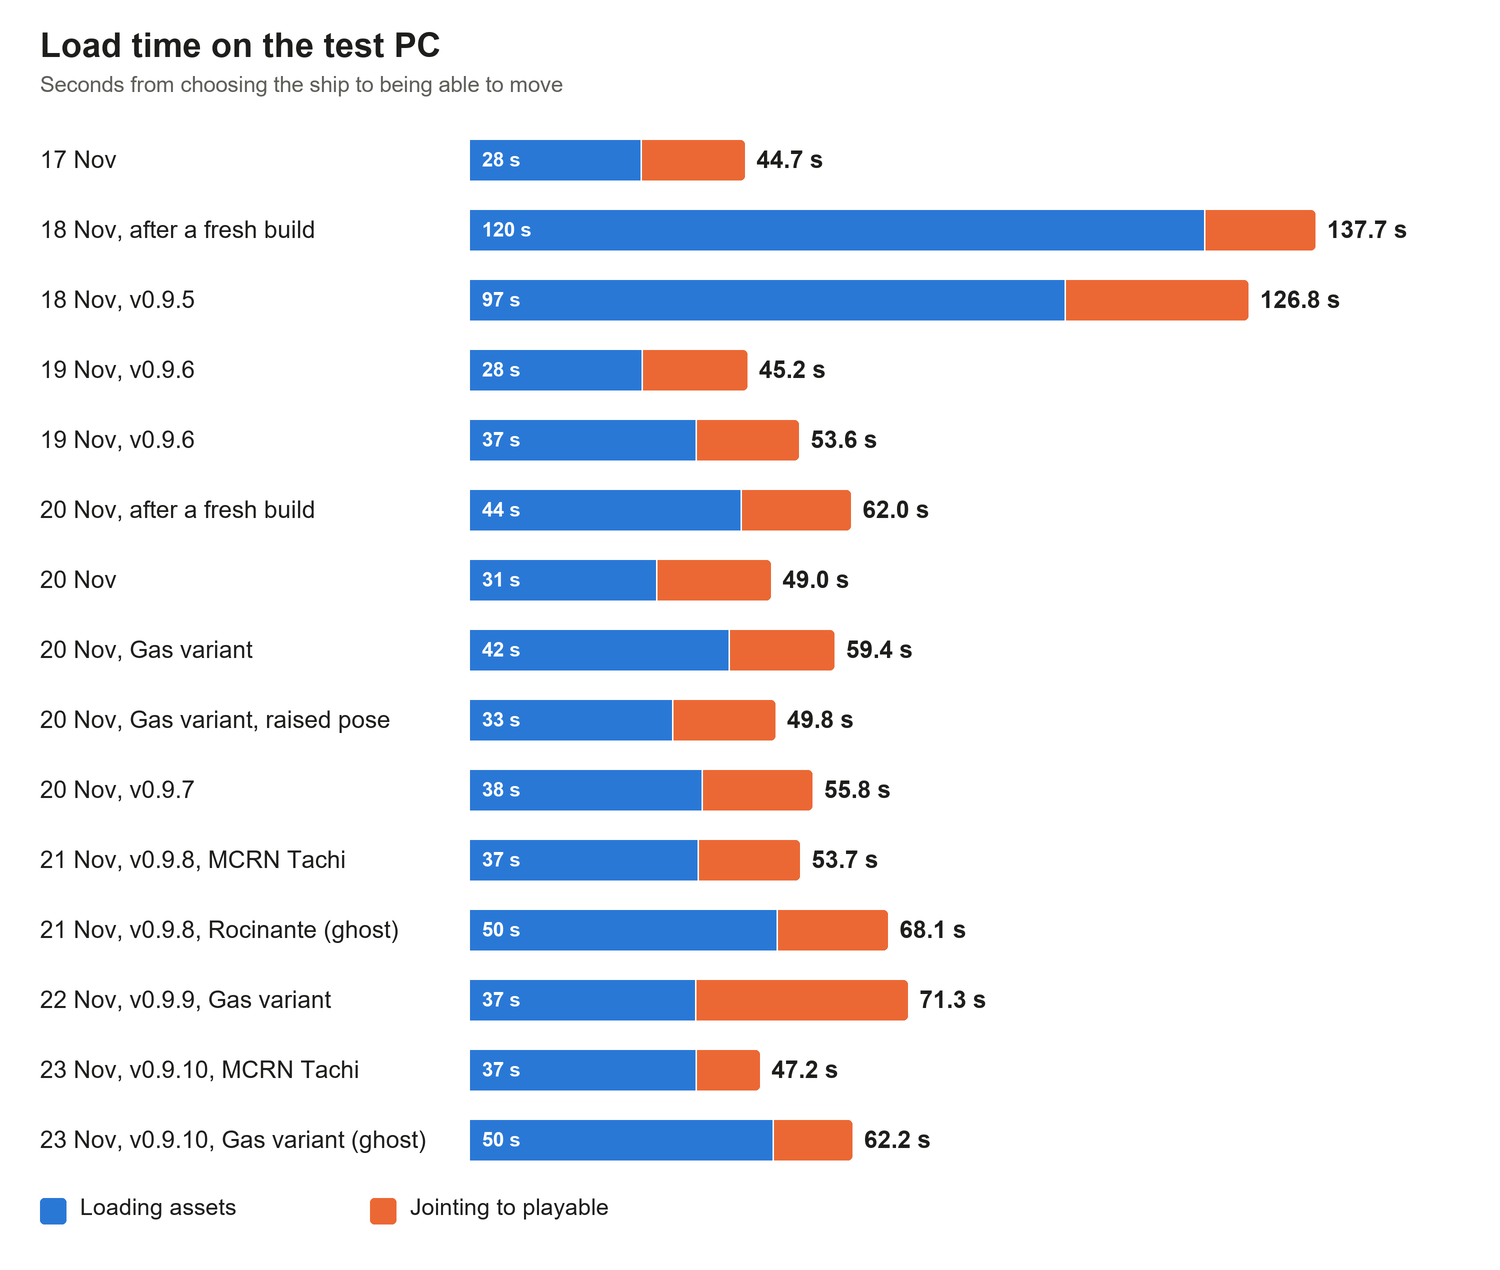
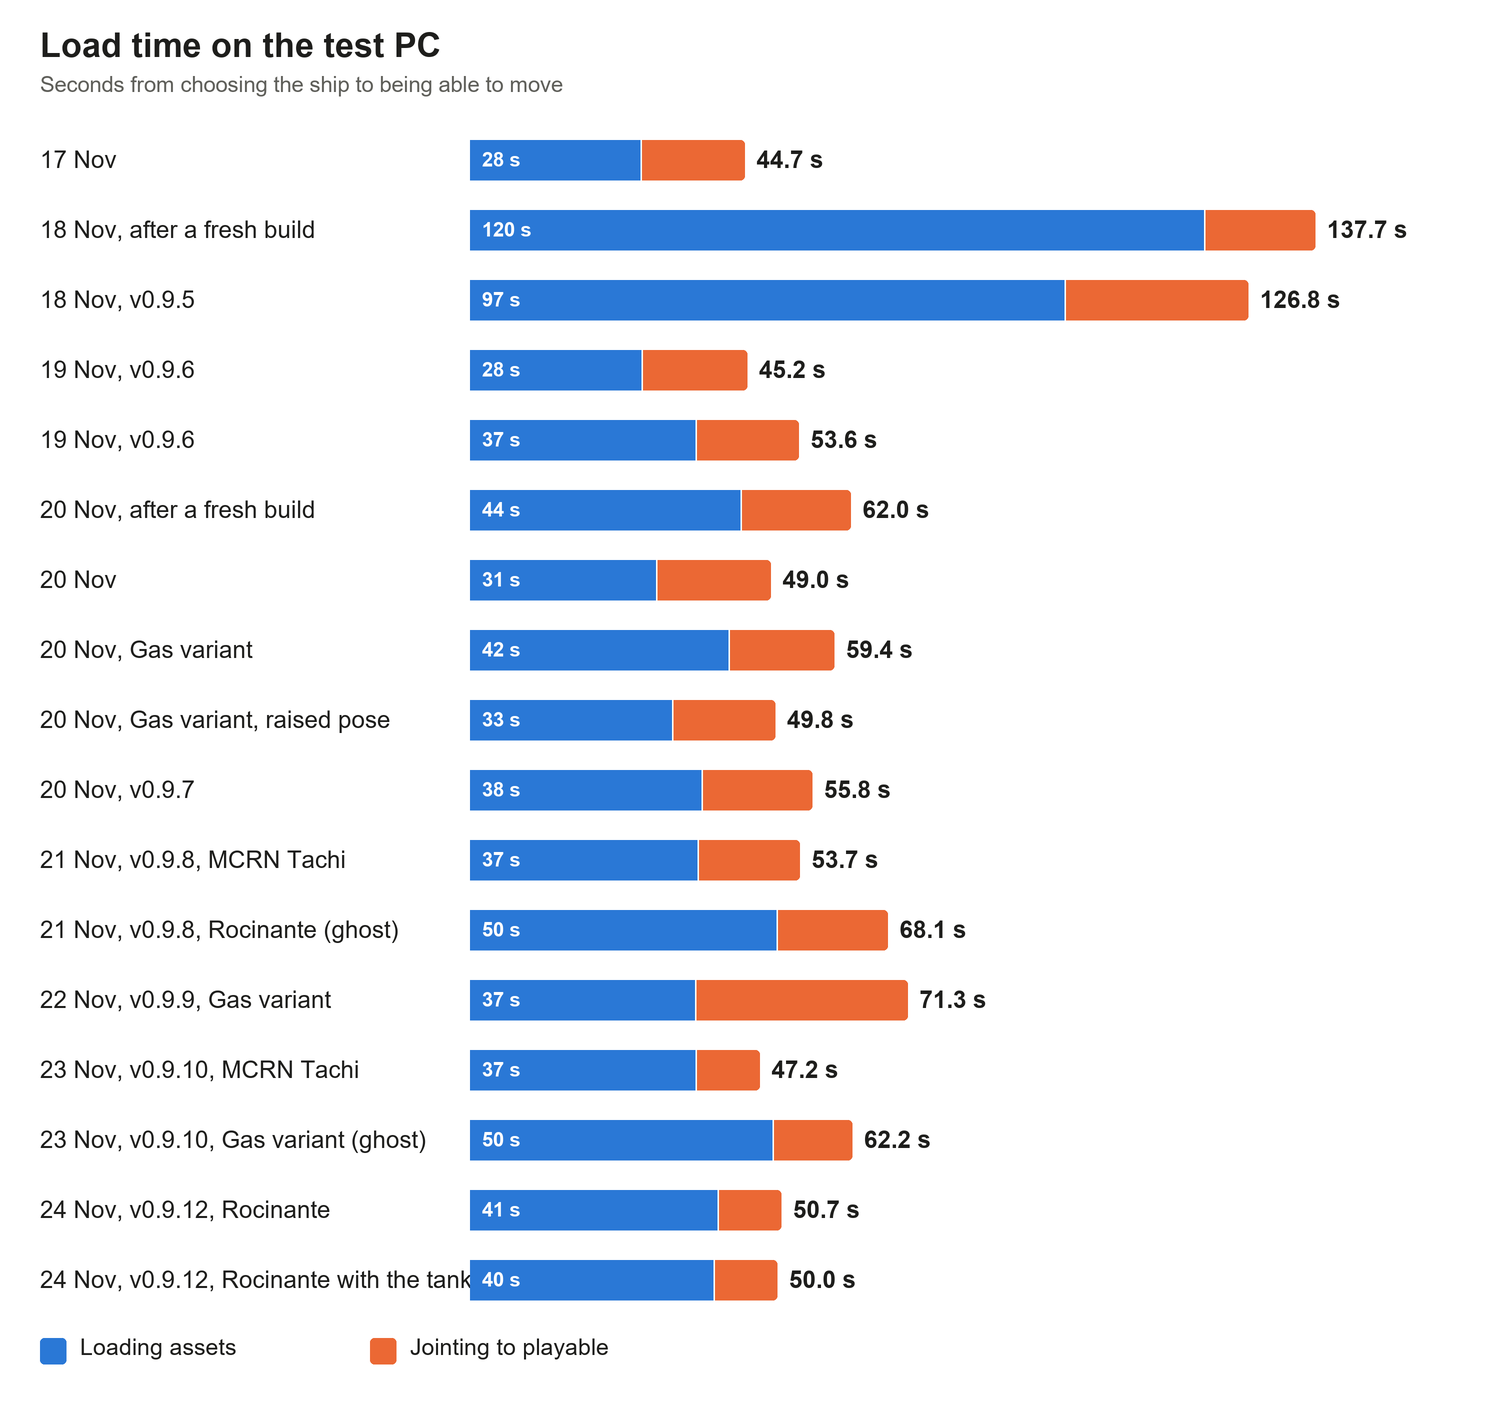
MCRN Corvette docs: reaction mass tanks, measured Rocinante count, v0.9.12 changelog
Rocinante 5,227 counted at load (logged, matches the calculation); Tachi 5,325,
Gas Hauler 5,750 by arithmetic from the parts log.

diff --git a/Docs/Tachi_Ship_Statistics.md b/Docs/Tachi_Ship_Statistics.md
@@ -2,7 +2,7 @@
 
 A custom salvage ship for Hardspace: Shipbreaker, modeled on the MCRN Corvette-class light frigate *Tachi* from *The Expanse*.
 
-Version 0.9.12, 24 November 2026. The v0.9.12 figures are the v0.9.11 figures below changed by simple arithmetic from the parts log kept while building, not a new census: on every variant 5 slot covers close the gaps in the Engineering ceiling, the four generators became the stock generator with its 3 status lights each (12 lights), 6 PDC ammo posters hang on the ammo crates, and the 8 reactor injector nozzles (6 pipe pieces each) became a 5-part thruster nozzle (8 parts fewer); the Rocinante also gains its railgun ammo poster and 2 generators on the railgun breech (17 parts). The v0.9.11 figures were the v0.9.10 measurements below changed by simple arithmetic: the cryo ring was rebuilt with longer pipes (12 straight pipes fewer, 2 cut points more, so 10 parts fewer on every variant), and ghost ships carry a 60th Protomolecule node. The Rocinante's count was logged on a load of this build (5,181 parts, normal ship). The paragraph below describes the v0.9.10 measurements. The MCRN Tachi figures, its categories and its loose parts are from a load of the v0.9.10 build on 23 November, with the mod's spawn census. The Gas Hauler's part counts, loose parts and cut points are from a load of the same day as a ghost ship; its normal-ship counts are those less its 59 nodes. The Rocinante was not loaded on this build: its figures are its v0.9.9 counts plus the 94 parts the base ship gained (the point defense housings rebuilt, the rings cut in eight, the fore hull regrouped). The section tables are from the v0.9.8 census and were not re-measured. "Measured" means taken from the game or the editor on that build. "Estimate" means calculated, with the method given.
+Version 0.9.12, 24 November 2026. The v0.9.12 figures are the v0.9.11 figures below changed by simple arithmetic from the parts log kept while building, not a new census: on every variant 5 slot covers close the gaps in the Engineering ceiling, the four generators became the stock generator with its 3 status lights each (12 lights), 6 PDC ammo posters hang on the ammo crates, and the 8 reactor injector nozzles (6 pipe pieces each) became a 5-part thruster nozzle (8 parts fewer); the Rocinante also gains its railgun ammo poster and 2 generators on the railgun breech (17 parts). The Rocinante was then loaded on this build: the game counted 5,211 parts, 2 fewer than calculated. After that load, 16 reaction mass tanks were hung under the cryo deck plates on every variant (16 parts). A second Rocinante load with the tanks counted 5,227, as calculated. The v0.9.11 figures were the v0.9.10 measurements below changed by simple arithmetic: the cryo ring was rebuilt with longer pipes (12 straight pipes fewer, 2 cut points more, so 10 parts fewer on every variant), and ghost ships carry a 60th Protomolecule node. The Rocinante's count was logged on a load of this build (5,181 parts, normal ship). The paragraph below describes the v0.9.10 measurements. The MCRN Tachi figures, its categories and its loose parts are from a load of the v0.9.10 build on 23 November, with the mod's spawn census. The Gas Hauler's part counts, loose parts and cut points are from a load of the same day as a ghost ship; its normal-ship counts are those less its 59 nodes. The Rocinante was not loaded on this build: its figures are its v0.9.9 counts plus the 94 parts the base ship gained (the point defense housings rebuilt, the rings cut in eight, the fore hull regrouped). The section tables are from the v0.9.8 census and were not re-measured. "Measured" means taken from the game or the editor on that build. "Estimate" means calculated, with the method given.
 
 ## At a glance
 
@@ -11,7 +11,7 @@ Version 0.9.12, 24 November 2026. The v0.9.12 figures are the v0.9.11 figures be
 | Length (engine bell to antenna tip) | 133.7 m |
 | Beam (port to starboard, over the gun mounts) | 54.6 m (Gas variant, over the tank racks: 67.2 m) |
 | Height (dorsal to ventral) | 46.3 m (Gas variant: 55.1 m) |
-| Parts counted at load | 5,309 (MCRN Tachi) · 5,213 (Rocinante) · 5,734 (Gas variant), all v0.9.12 |
+| Parts counted at load | 5,325 (MCRN Tachi) · 5,227 (Rocinante) · 5,750 (Gas variant), all v0.9.12 |
 | As a ghost ship | 60 Protomolecule nodes and 252 growth patches more (see Ghost ship content) |
 | Cut points | 260 (Gas variant: 343) |
 | Loose items at spawn | 183 (props, pickups and one floating corpse, in one of six places) |
@@ -46,6 +46,8 @@ Measured on the test PC, from choosing the ship to being able to move:
 | 22 Nov, v0.9.9, Gas variant | 71.3 s | 36.9 s | 34.4 s |
 | 23 Nov, v0.9.10, MCRN Tachi | 47.2 s | 37.0 s | 10.2 s |
 | 23 Nov, v0.9.10, Gas variant as a ghost ship | 62.2 s | 49.5 s | 12.7 s |
+| 24 Nov, v0.9.12, Rocinante | 50.7 s | 40.6 s | 10.1 s |
+| 24 Nov, v0.9.12, Rocinante with the tanks | 50.0 s | 39.9 s | 10.1 s |
 
 The v0.9.5 run had the mod's part-data capture switched on, which adds load time, so it overstates a normal load.
 
@@ -70,12 +72,12 @@ If the game sits on the loading screen for more than ten minutes, treat it as a 
 
 | | |
 |---|---|
-| Live parts at spawn (every piece the game simulates) | 5,311 (v0.9.12; 5,296 on v0.9.11) |
-| Parts counted by the game's joint pass | 5,309 (v0.9.12; 5,294 on v0.9.11) |
+| Live parts at spawn (every piece the game simulates) | 5,327 (v0.9.12; 5,296 on v0.9.11) |
+| Parts counted by the game's joint pass | 5,325 (v0.9.12; 5,294 on v0.9.11) |
 | Objects in the ship that never become parts | 260 (see below) |
 | Largest mesh | `Suit_Hanging` (a stock hanging suit), 17,136 vertices |
 | Part ceiling at that mesh size | 7,832 |
-| Headroom | 2,523 parts |
+| Headroom | 2,507 parts |
 
 **The part ceiling.** While the ship loads, the game multiplies the number of parts by the vertex count of the largest single mesh. If that product passes 134,217,728 the game crashes on load. With the current largest mesh that allows 7,832 parts. Adding parts, or adding one mesh larger than 17,136 vertices, both use up the headroom. The rebuilt point defense housings took the ship's own largest mesh (18,291 vertices) below the stock suit's.
 
@@ -93,16 +95,16 @@ If the game sits on the loading screen for more than ten minutes, treat it as a 
 
 | Category | Parts | Share |
 |---|---|---|
-| Furniture and props | 1,714 | 32.3 % |
+| Furniture and props | 1,730 | 32.5 % |
 | Decks, walls, stairs and doors | 1,015 | 19.1 % |
 | Machinery, power and weapons | 846 | 15.9 % |
 | Pipes and cables | 802 | 15.1 % |
 | Cut points | 260 | 4.9 % |
-| Lights | 258 | 4.9 % |
+| Lights | 258 | 4.8 % |
 | Hull panels | 212 | 4.0 % |
 | Structural frame | 204 | 3.8 % |
 
-The category table is from the v0.9.10 census of the MCRN Tachi. Against v0.9.9 the rebuilt point defense housings add 91 machinery parts, and the regrouped fore hull adds 4 cut points. In v0.9.11 the rebuilt cryo ring has 12 straight pipes fewer and 2 cut points more. In v0.9.12 the posters add 6 furniture parts, the generator status lights 12 lights, the ceiling slot covers 5 hull panels, and the new injector nozzles count 8 pipe parts fewer. The section tables are from the v0.9.8 census of the Rocinante, with the MCRN Tachi's 106 extra furniture parts added to the interior, where they all are. Four pipe pieces at the fore thermal vents carry the cut point type so that they do not joint to the vents; they are counted here as pipe.
+The category table is from the v0.9.10 census of the MCRN Tachi. Against v0.9.9 the rebuilt point defense housings add 91 machinery parts, and the regrouped fore hull adds 4 cut points. In v0.9.11 the rebuilt cryo ring has 12 straight pipes fewer and 2 cut points more. In v0.9.12 the posters and the 16 reaction mass tanks add 22 furniture parts, the generator status lights 12 lights, the ceiling slot covers 5 hull panels, and the new injector nozzles count 8 pipe parts fewer. The section tables are from the v0.9.8 census of the Rocinante, with the MCRN Tachi's 106 extra furniture parts added to the interior, where they all are. Four pipe pieces at the fore thermal vents carry the cut point type so that they do not joint to the vents; they are counted here as pipe.
 
 Categories are assigned from each part's joint type and name. The rules were rewritten for v0.9.5, so these shares are not comparable with earlier versions of this document.
 
@@ -121,11 +123,11 @@ The floating corpse and its suit (14 parts) spawn in one of six places. In this 
 
 ### Loose parts
 
-At spawn the main structure is one body of 5,128 parts (v0.9.12, calculated: every part added since the census is jointed to the ship). Two fittings are loose in this build: a railing and a thruster terminal.
+At spawn the main structure is one body of 5,144 parts (v0.9.12, calculated: every part added since the census is jointed to the ship). Two fittings are loose in this build: a railing and a thruster terminal.
 
 | | |
 |---|---|
-| Main structure | 5,128 parts in one body |
+| Main structure | 5,144 parts in one body |
 | Loose parts | 183, in 159 separate bodies |
 | Loose single items | 150 |
 | Loose bodies of more than one part | 9 |
@@ -217,10 +219,10 @@ The ship comes in three versions, each listed as its own ship in Free Play and o
 |---|---|---|---|
 | What differs | | Colors as an independent warship, keel railgun with its ammo crate and 2 generators on the breech, Belter posters, less furniture | Colors, 24 external tanks on trusses, point defense cannons removed, own bay pose, Belter posters, less furniture |
 | How it is picked | Own ship entry | Own ship entry | Own ship entry |
-| Live parts at spawn | 5,311 (v0.9.12, see Parts) | 5,215 (calculated) | 5,736 (5,796 as a ghost ship) |
-| Parts counted by the joint pass | 5,309 | 5,213 as a normal ship, 5,273 as a ghost ship | 5,734 as a normal ship, 5,794 as a ghost ship |
-| Headroom under the part ceiling | 2,523 | 2,619 (2,559 as a ghost ship) | 2,098 (2,038 as a ghost ship) |
-| Main structure | 5,128 | 5,035 | 5,606 as a ghost ship |
+| Live parts at spawn | 5,327 (v0.9.12, see Parts) | 5,229 (logged) | 5,752 (5,812 as a ghost ship) |
+| Parts counted by the joint pass | 5,325 | 5,227 as a normal ship (logged), 5,287 as a ghost ship | 5,750 as a normal ship, 5,810 as a ghost ship |
+| Headroom under the part ceiling | 2,507 | 2,605 (2,545 as a ghost ship) | 2,082 (2,022 as a ghost ship) |
+| Main structure | 5,144 | 5,051 | 5,622 as a ghost ship |
 | Loose parts | 183 in 159 bodies | about 180 in 156 bodies | 190 in 160 bodies, as a ghost ship |
 | Cut points | 260 | 260 | 343 |
 | Size (length x beam x height) | 133.7 x 54.6 x 46.3 m | same | 133.7 x 67.2 x 55.1 m |
@@ -327,6 +329,7 @@ Sizes and masses were measured on an earlier 18 November build and not re-measur
 | Acceleration couches | 32 |
 | Main drive | 1, with a 16-segment nozzle and 8 fuel injectors |
 | Reactor | 1 fusion reactor |
+| Reaction mass tanks | 16, hung under the cryo deck around the reactor |
 | RCS thruster housings | 7 |
 | Heat exchangers and radiators | 8 of each |
 | Airlocks | 2 (forward and aft) |
@@ -400,7 +403,7 @@ The lore gives performance figures for the Epstein drive in general, not for thi
 | Dimensions, per-section sizes | Part bounds in the Unity editor |
 | Volume | Calculated from part bounds, as described above |
 | Mass | Calculated with the game's own formula from mesh volume and material density, plus game-reported masses for stock parts |
-| v0.9.12 figures | The v0.9.11 figures changed by the parts logged while building (`.claude/parts_ledger.md`): 5 ceiling slot covers, 12 generator status lights, 6 ammo posters, 8 injector nozzles of 5 parts replacing 8 of 6 pipe pieces; Rocinante also 1 railgun poster and 2 generators of 8 parts. Not yet checked against a census |
+| v0.9.12 figures | The v0.9.11 figures changed by the parts logged while building (`.claude/parts_ledger.md`): 5 ceiling slot covers, 12 generator status lights, 6 ammo posters, 8 injector nozzles of 5 parts replacing 8 of 6 pipe pieces; Rocinante also 1 railgun poster and 2 generators of 8 parts. Rocinante checked on a load of 24 November: 5,211 counted, 2 under the calculation. Then 16 reaction mass tanks on every variant; a second Rocinante load counted 5,227 |
 | v0.9.11 figures | The v0.9.10 figures changed by the parts added and removed since: the cryo ring (12 straight pipes fewer, 2 cut points more) and the 60th ghost-ship node. Rocinante: joint-pass count and main structure from the mod's spawn census on a load of 23 November, 11:16 |
 | v0.9.10 figures | The mod's spawn census on loads of 23 November: MCRN Tachi as a normal ship, Gas variant as a ghost ship (its normal-ship counts are those less 59 nodes). Rocinante: its v0.9.9 count plus the 94 parts the base ship gained |
 | v0.9.9 part counts | The v0.9.8 counts, changed by the objects added, removed and switched off in the ship's files since: none on the MCRN Tachi, 7 fewer on the Rocinante. Checked against the part counts the PartInfoLogger mod logged on two loads of 22 November: Rocinante 5,097, Gas variant 5,687. Loose parts by type: 20 floating data drives became 7 credit drives, 7 oxygen cans and 6 thruster fuel cans |
